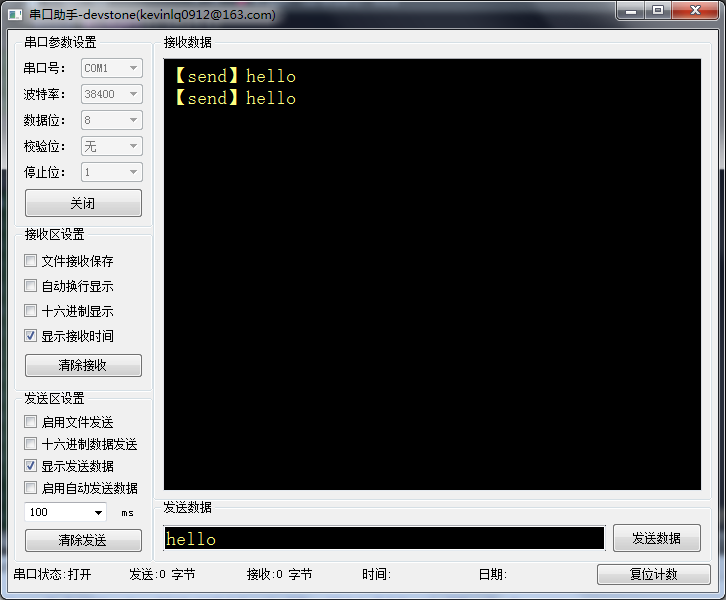
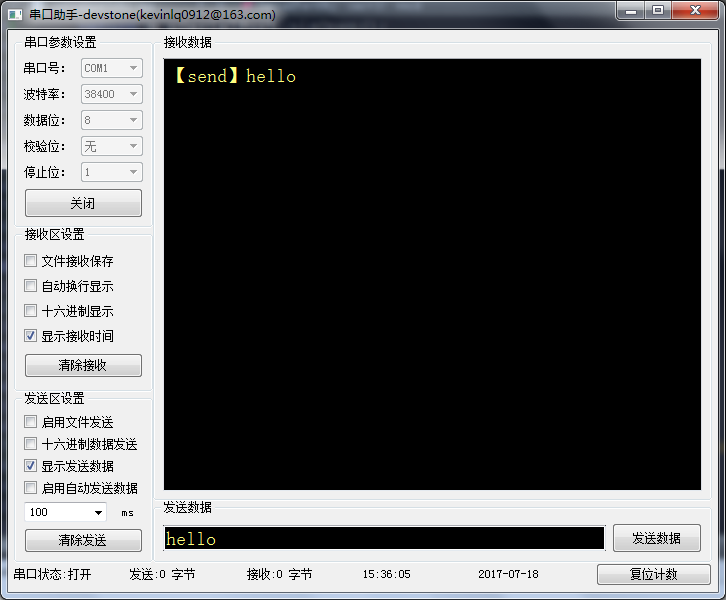
change png

diff --git a/LSerialTool/Src/ui/widget.cpp b/LSerialTool/Src/ui/widget.cpp
@@ -6,6 +6,8 @@
 #include <QDateTime>
 #include <QDebug>
 
+#include <QTimer>
+
 #define DATETIME qPrintable (QDateTime::currentDateTime().toString("yyyy-MM-dd HH:mm:ss"))
 
 Widget::Widget(QWidget *parent) :
@@ -90,6 +92,12 @@ void Widget::initForm()
         ui->cboxTime->addItem(QString::number(i));
     }
     ui->cboxTime->setEditable(true);
+
+    //更新时间
+    m_pUpdateTime = new QTimer(this);
+    connect(m_pUpdateTime,SIGNAL(timeout()),
+            this,SLOT(slotUpdateTime()));
+    m_pUpdateTime->start(1000);
 }
 
 void Widget::initObj()
@@ -103,6 +111,12 @@ void Widget::initObj()
 void Widget::slotReceSerial(const QByteArray &buf)
 {
     ui->txtRecData->append(buf);
+}
+
+void Widget::slotUpdateTime()
+{
+    ui->labDate->setText(QDate::currentDate().toString("yyyy-MM-dd"));
+    ui->labTime->setText(QTime::currentTime().toString("hh:mm:ss"));
 }
 
 /**

diff --git a/LSerialTool/Src/ui/widget.h b/LSerialTool/Src/ui/widget.h
@@ -4,6 +4,7 @@
 #include <QWidget>
 
 class SerialPortObj;
+class QTimer;
 
 namespace Ui {
 class Widget;
@@ -30,6 +31,8 @@ private Q_SLOTS:
 
     void slotReceSerial(const QByteArray &buf);
 
+    void slotUpdateTime();
+
     void on_btnOpen_clicked();
 
     void on_btnSend_clicked();
@@ -46,6 +49,7 @@ private:
 private:
     Ui::Widget *ui;
     SerialPortObj   *m_pSerialObj;
+    QTimer  *m_pUpdateTime;
 };
 
 #endif // WIDGET_H
